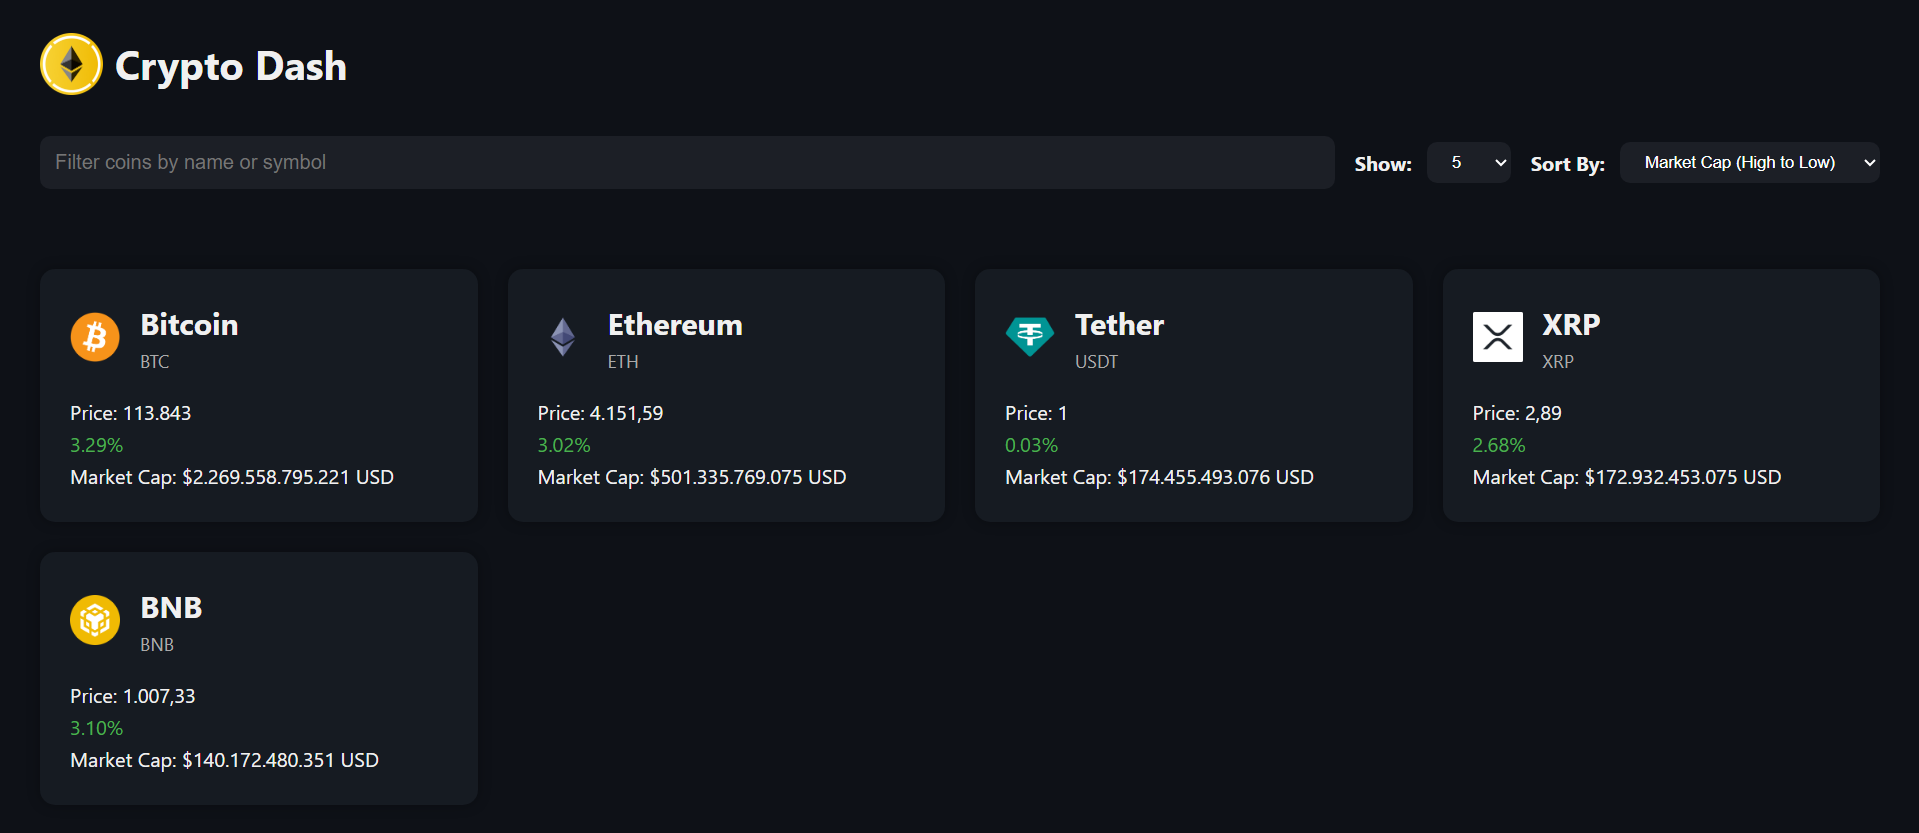
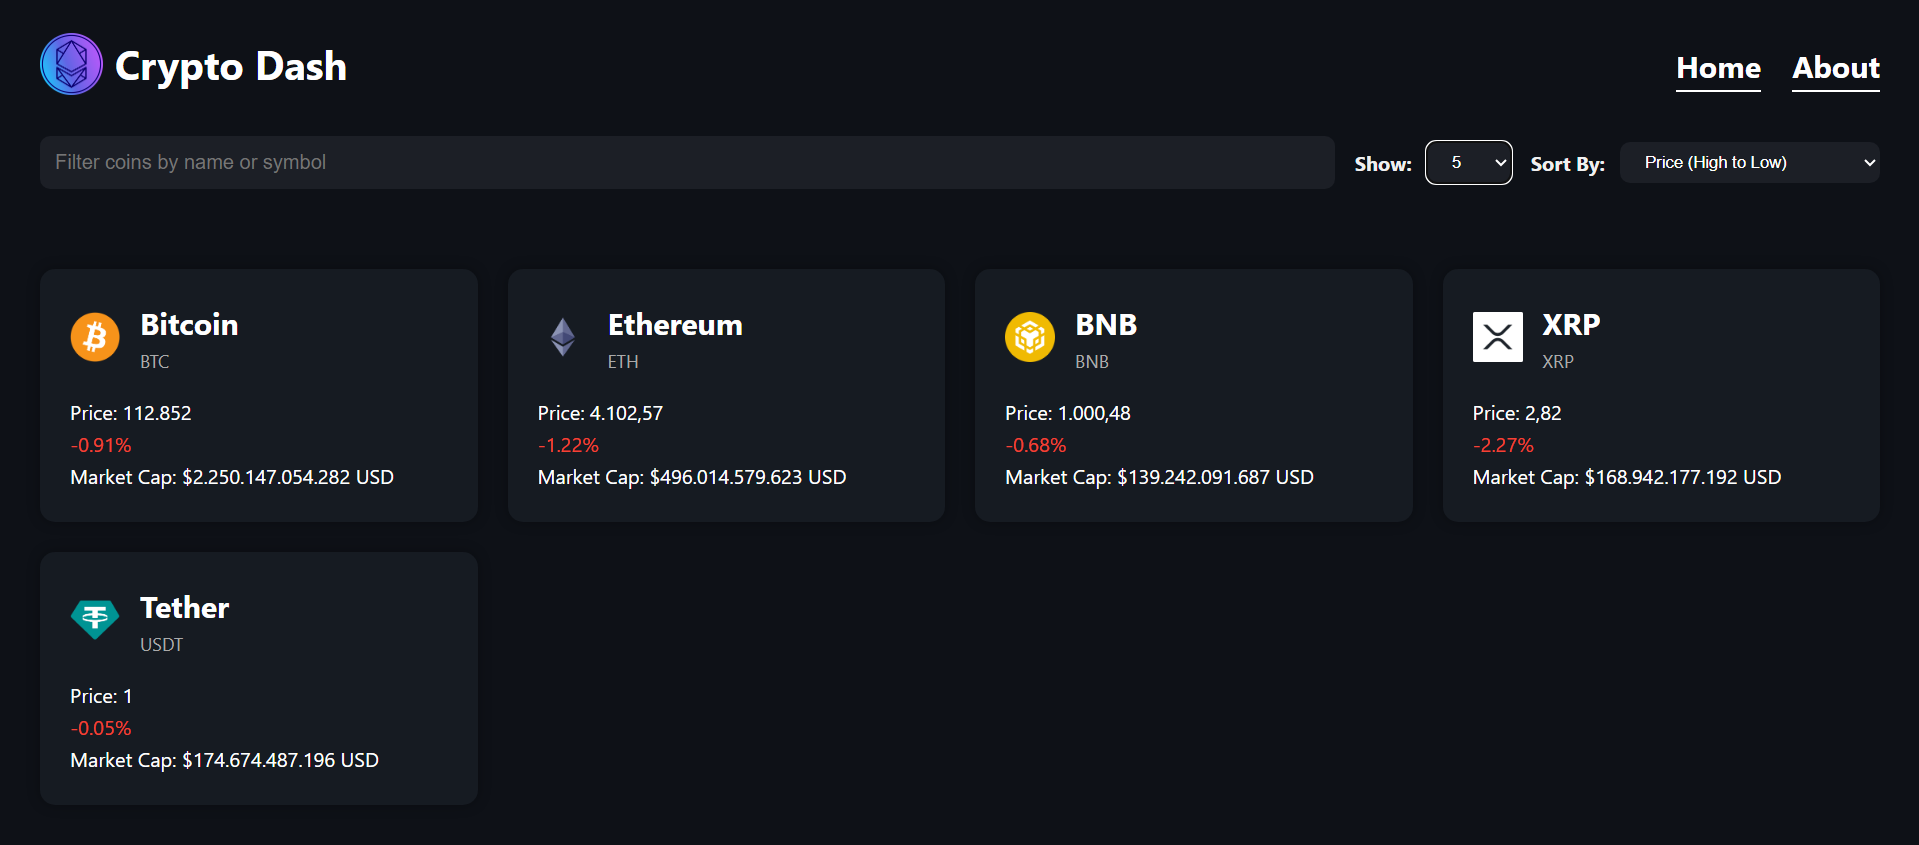
readme changed

diff --git a/src/pages/coin-details.jsx b/src/pages/coin-details.jsx
@@ -2,7 +2,6 @@ import axios from "axios";
 import {useState, useEffect} from "react"
 import { useParams } from "react-router";
 import { Link } from "react-router";
-import { FaArrowLeftLong } from "react-icons/fa6";
 import Spinner from "../components/Spinner"
 
 
@@ -32,7 +31,7 @@ const CoinDetailsPage = () => {
     return (
         <div className="coin-details-container">
             <Link to="/">
-            <FaArrowLeftLong className=""/>Back To Home</Link>
+            ← Back To Home</Link>
 
             <h1 className="coin-details-title">
                 {coin ? `${coin.name} (${coin.symbol.toUpperCase()})` : "Coin Detail"}

diff --git a/src/pages/home.jsx b/src/pages/home.jsx
@@ -39,7 +39,7 @@ const HomePage = ({
   })
     return (
     <div>
-      { loading && <p><Spinner/></p>}
+      { loading && <div><Spinner/></div>}
       {error && <div className="error">{error}</div>}
 
         <div className="top-controls">

diff --git a/src/components/Header.jsx b/src/components/Header.jsx
@@ -21,9 +21,7 @@ const Header = ({randomCoin}) => {
           <Link to="/" ><h2>Home</h2></Link>
           <Link to="/about" ><h2>About</h2></Link>
         </div>
-
       </div>
-        
     );
 }
  

diff --git a/README.md b/README.md
@@ -1,6 +1,6 @@
-# React + Vite Crypto Dash App
+# React Crypto Dash App
 
-Used <a href="https://www.coingecko.com/tr/api">CoinGecko API</a> in this project.
+React app to browse and search cryptocurrency information. This project uses the <a href="https://www.coingecko.com/tr/api">CoinGecko API</a>.
 
 <img src="src/assets/img3.png" width="800">
 
@@ -17,3 +17,7 @@ You can <strong>search</strong> coin:
 <strong>Selecting</strong> how many coins to list:
 
 <img src="src/assets/img1.png" width="800">
+
+Coin <strong>details</strong> page:
+
+<img src="src/assets/img5.png" width="800">
